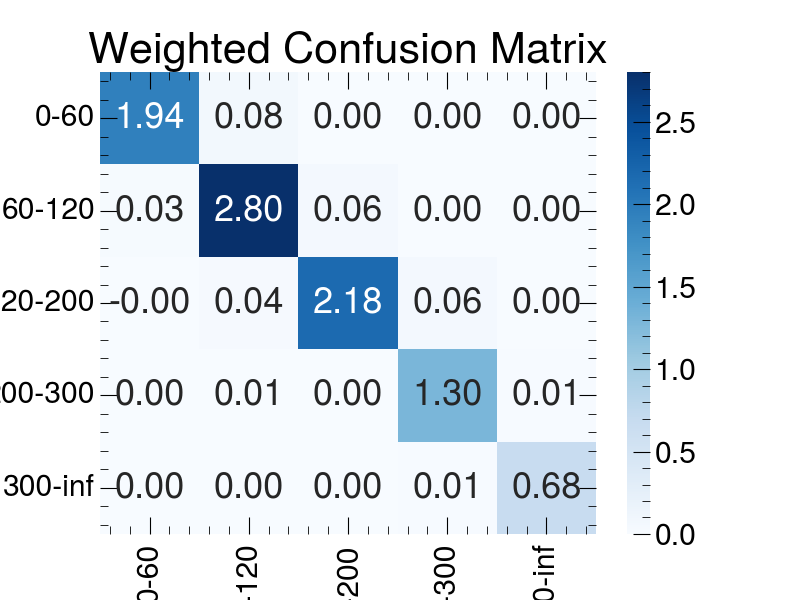
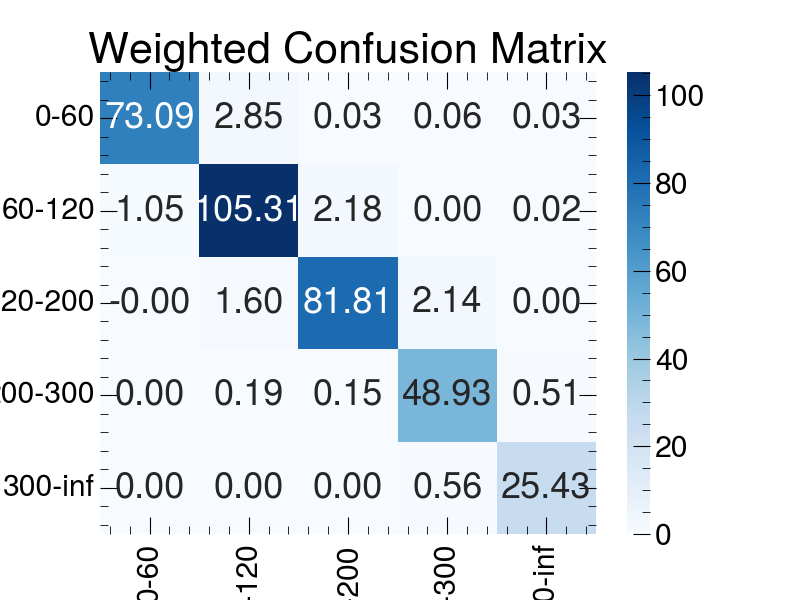
Added nll min globally getting hessian and cov

diff --git a/utils.py b/utils.py
@@ -11,6 +11,9 @@ sample_path = "/vols/cms/jl2117/icrf/hgg/MSci_projects/samples/Pass1"
 plot_path = "all_plots"
 analysis_path = "stat_anal"
 
+total_lumi = 7.9804
+target_lumi = 300
+
 vars_plotting_dict = {
     # var_name : [nbins, range, log-scale]
     "mass_sel" : [80, (100,180), False, "$m_{\\gamma\\gamma}$ [GeV]"],
@@ -176,7 +179,7 @@ def get_hessian(i, j, hists, mu_vals, conf_matrix, signal="ttH"):
 def get_hessian_comb(i, j, combined_histogram, mu_vals, conf_matrix, signal="ttH"):
 
     num_bins = len(next(iter(combined_histogram.values())))  # Total bins (should be 25)
-
+ 
     for bin_idx in range(num_bins):
         expected_total = 0.0
         observed_count = 0.0
@@ -329,7 +332,7 @@ def get_pt_cat(data):
 def get_conf_mat(data):
     #print(data.columns[data.columns[:4]=="HTXS"])
     data = data[data["pt-over-mass_sel"]==data["pt-over-mass_sel"]].reset_index(drop=True)
-    
+    data["plot_weight"] = data["plot_weight"]*(target_lumi/total_lumi)
     b_tag_scores = np.array(data[['j0_btagB_sel', 'j1_btagB_sel', 'j2_btagB_sel', 'j3_btagB_sel']])
     b_tag_scores = np.nan_to_num(b_tag_scores, nan=-1)
     max_b_tag_score = -1*np.sort(-1*b_tag_scores,axis=1)[:,0]
@@ -435,3 +438,18 @@ def profiled_NLL_fit(combined_histogram, conf_matrix, mu_idx):
     
     vals = find_crossings((mu_vals, TwoDeltaNLL(nll)), 1.)
     return (vals[0], nll)
+
+def global_nll_fit(combined_histogram, conf_matrix):
+    num_truth = len(conf_matrix[0])
+
+    def calc_nll_mus_only(mus):
+        return calc_NLL_comb(combined_histogram, mus)
+    guess = np.ones(num_truth)
+    res = minimize(
+        calc_nll_mus_only,
+        guess,
+        method="L-BFGS-B"
+    )
+    hessian_inv = res.hess_inv.todense() if hasattr(res.hess_inv, 'todense') else res.hess_inv
+    hessian = np.linalg.inv(hessian_inv)
+    return (res.x, res.fun, hessian_inv, hessian)

diff --git a/simple_stat_analysis.py b/simple_stat_analysis.py
@@ -233,7 +233,6 @@ for i in range(len(init_mu)):
         # Calculate the NLL for the current set of \mu values
         NLL_vals.append(calc_NLL_comb(comb_hist, init_mu,signal='ttH'))
 
-    print(len(mu_vals), len(TwoDeltaNLL(NLL_vals)))
     vals = find_crossings((mu_vals, TwoDeltaNLL(NLL_vals)), 1.)
     init_mu[i] = vals[0]#[0]
     label = add_val_label(vals)
@@ -276,6 +275,17 @@ for idx in range(5):
     ax[idx].legend(loc='best')
 fig.suptitle("Profiled NLL fit for each mu")
 fig.savefig("nll_profiled_fit.png")
+#%%
+print('''
+      NLL Global fit
+''')
+
+global_mu, global_nll, hessian, cov = global_nll_fit(comb_hist, conf_matrix[2])
+print(f"""
+      Global best fit for mu: {global_mu}
+        Hessian: {hessian}
+        Covariance: {cov}
+""")
 
 
 #%%

diff --git a/background_dist.py b/background_dist.py
@@ -13,7 +13,7 @@ def get_background_dist():
     back_data = pd.read_parquet(f"{sample_path}/Data_processed_selected.parquet")
     back_mass = back_data["mass_sel"]#.dropna().reset_index(drop=True)
     back_pt = back_data["pt-over-mass_sel"]*back_mass
-    print(back_pt)
+    #print(back_pt)
     back_data["categories"] = get_pt_cat(back_pt)
     back_data["categories"].dropna()
     #print(back_data["categories"])
